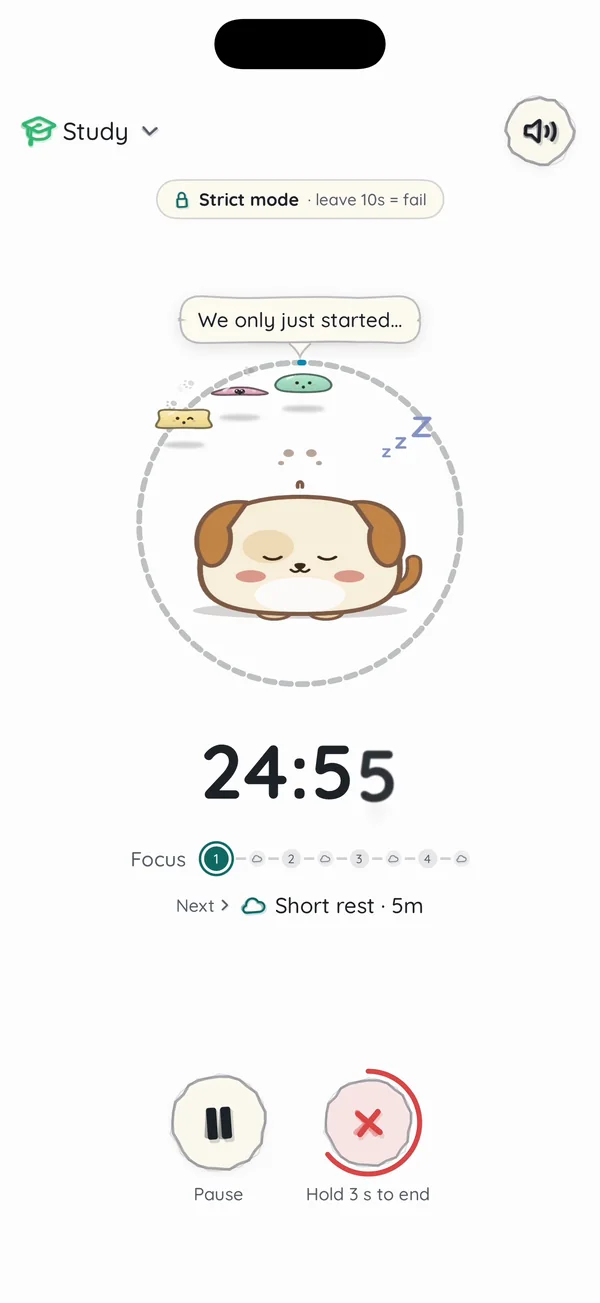
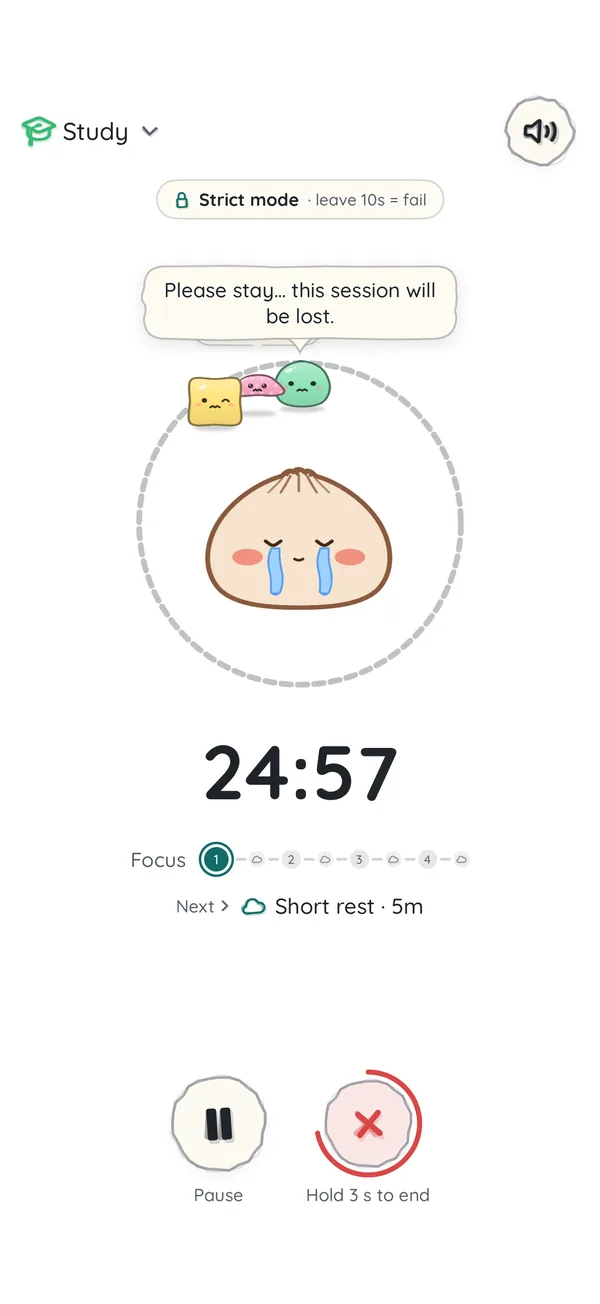
Nomodoro: 11 languages, the buddy cries when you hold End

diff --git a/freshair/index.html b/freshair/index.html
@@ -30,7 +30,7 @@
         "operatingSystem": "iOS 17.0 or later",
         "applicationCategory": "ProductivityApplication",
         "applicationSubCategory": "Pomodoro focus timer and app blocker",
-        "inLanguage": ["en", "vi", "es", "fr", "de", "pt", "ja", "ko", "zh-Hans", "id"],
+        "inLanguage": ["en", "vi", "es", "fr", "de", "pt", "ja", "ko", "zh-Hans", "id", "uk"],
         "featureList": [
           "Visual pomodoro countdown and count-up timer",
           "A companion that cheers when you finish and gets sad when you give up",
@@ -63,7 +63,7 @@
           { "@type": "Question", "name": "How does Whitelist mode block apps?",
             "acceptedAnswer": { "@type": "Answer", "text": "It uses Apple's Screen Time API. You pick up to 10 apps that stay allowed; every other app is shielded only while a focus session runs, and released when it ends. Your app choices never leave your iPhone." } },
           { "@type": "Question", "name": "Can I quit a session early?",
-            "acceptedAnswer": { "@type": "Answer", "text": "Yes. Hold End for 3 seconds. Your buddy gets a little sad while you hold, and cheers if you let go. A count-up session just asks to save." } },
+            "acceptedAnswer": { "@type": "Answer", "text": "Yes. Hold End for 3 seconds. Your buddy looks worried and starts to cry while you hold, and cheers if you let go. A count-up session just asks to save." } },
           { "@type": "Question", "name": "What are Friends and gems?",
             "acceptedAnswer": { "@type": "Answer", "text": "Complete focus sessions to earn gems, then claim doodle companions. Pro unlocks five exclusives (bubble tea, donut, puppy, capybara, apple) without gems; everyone else still needs enough gems to claim." } },
           { "@type": "Question", "name": "Which Pro plan should I pick?",
@@ -494,7 +494,7 @@
           <ul class="facts">
             <li>Unlimited focus, free forever</li>
             <li>No ads, no account</li>
-            <li>10 languages</li>
+            <li>11 languages</li>
           </ul>
         </div>
 
@@ -605,12 +605,12 @@
 
         <article class="row reveal">
           <div class="visual">
-            <div class="phone"><img src="./images/v2/s-hold.webp" alt="Hold End for 3 seconds while the puppy gets sleepy and sad" width="600" height="1304" loading="lazy" /></div>
+            <div class="phone"><img src="./images/v2/s-hold.webp" alt="Hold End for 3 seconds while the steamed bun cries" width="600" height="1304" loading="lazy" /></div>
           </div>
           <div class="text">
             <span class="tag new">✨ New · Hold to give up</span>
             <h3>Quitting takes a 3-second hold</h3>
-            <p>No more one-tap escapes. Hold End and your buddy and slimes get sadder each second… let go and they cheer. A tiny pause that saves a lot of sessions.</p>
+            <p>No more one-tap escapes. Hold End and your buddy looks worried, then starts to cry… let go and it cheers. A tiny pause that saves a lot of sessions.</p>
           </div>
         </article>
 
@@ -765,7 +765,7 @@
         </details>
         <details>
           <summary>Can I quit a session early?</summary>
-          <p>Yes — hold End for 3 seconds. Your buddy gets a little sad while you hold, and cheers if you let go. A count-up session just asks to save.</p>
+          <p>Yes — hold End for 3 seconds. Your buddy looks worried and starts to cry while you hold, and cheers if you let go. A count-up session just asks to save.</p>
         </details>
         <details>
           <summary>What are Friends and gems?</summary>
